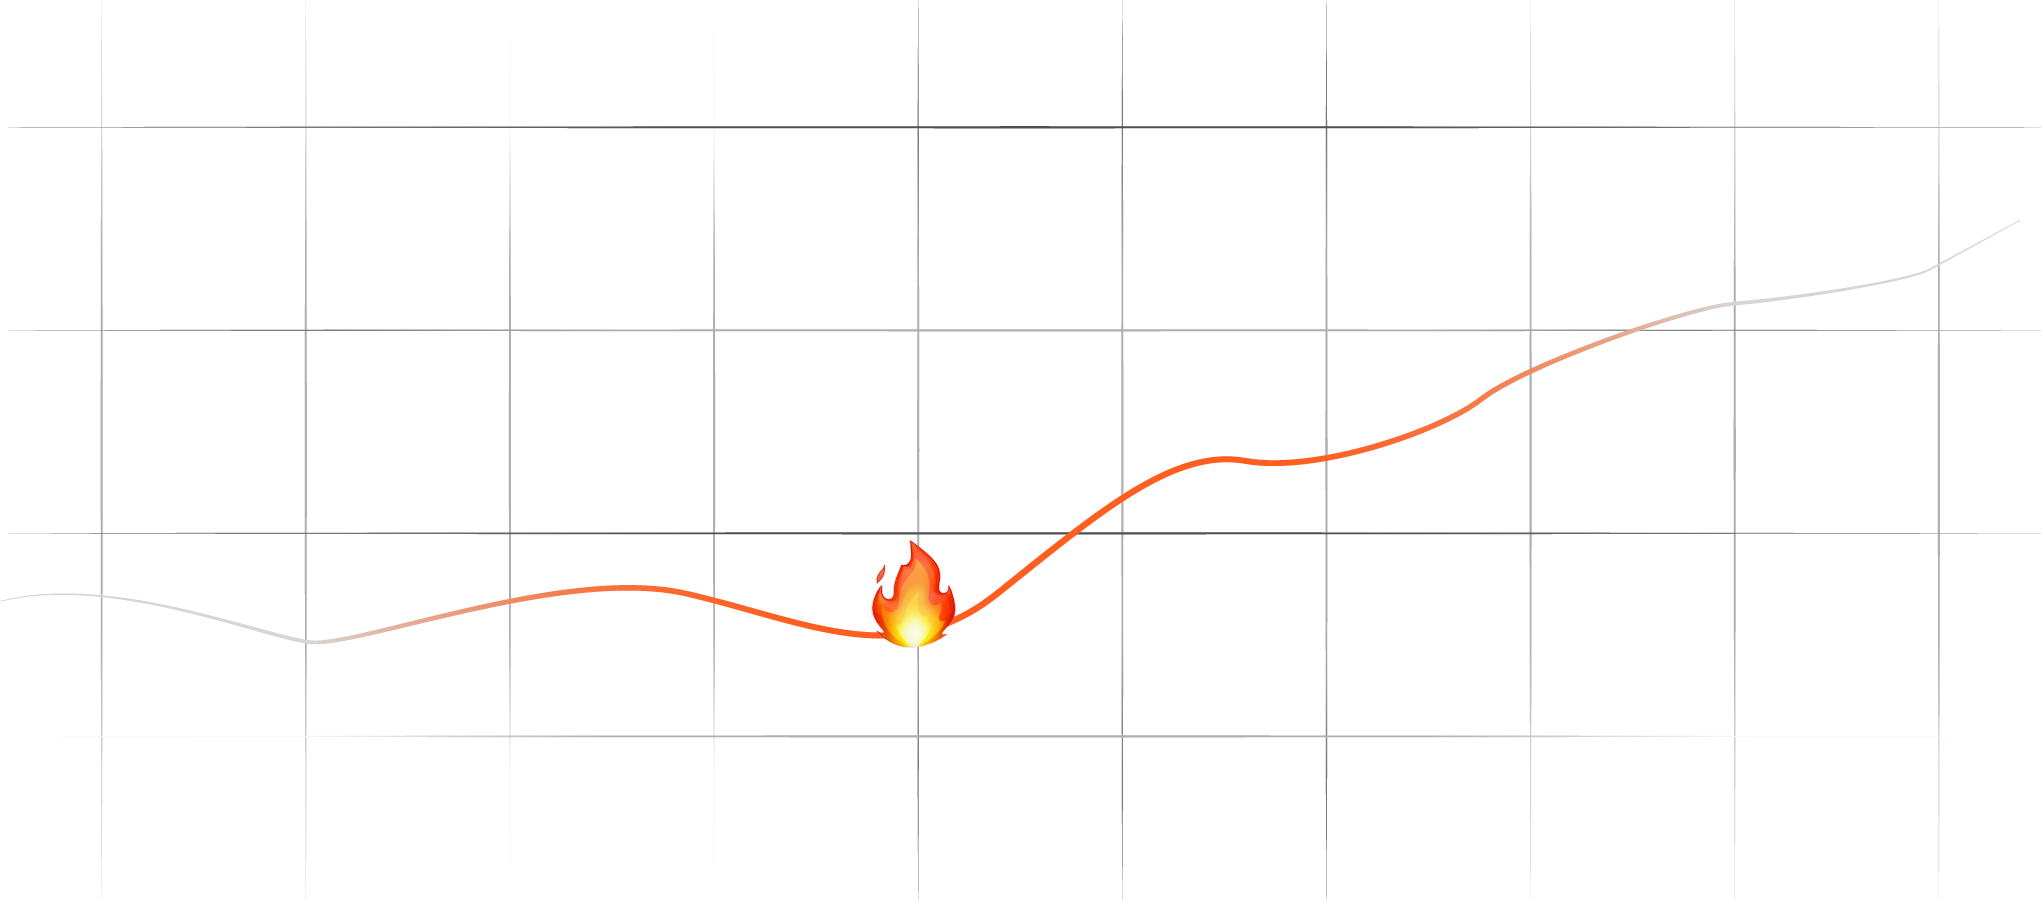
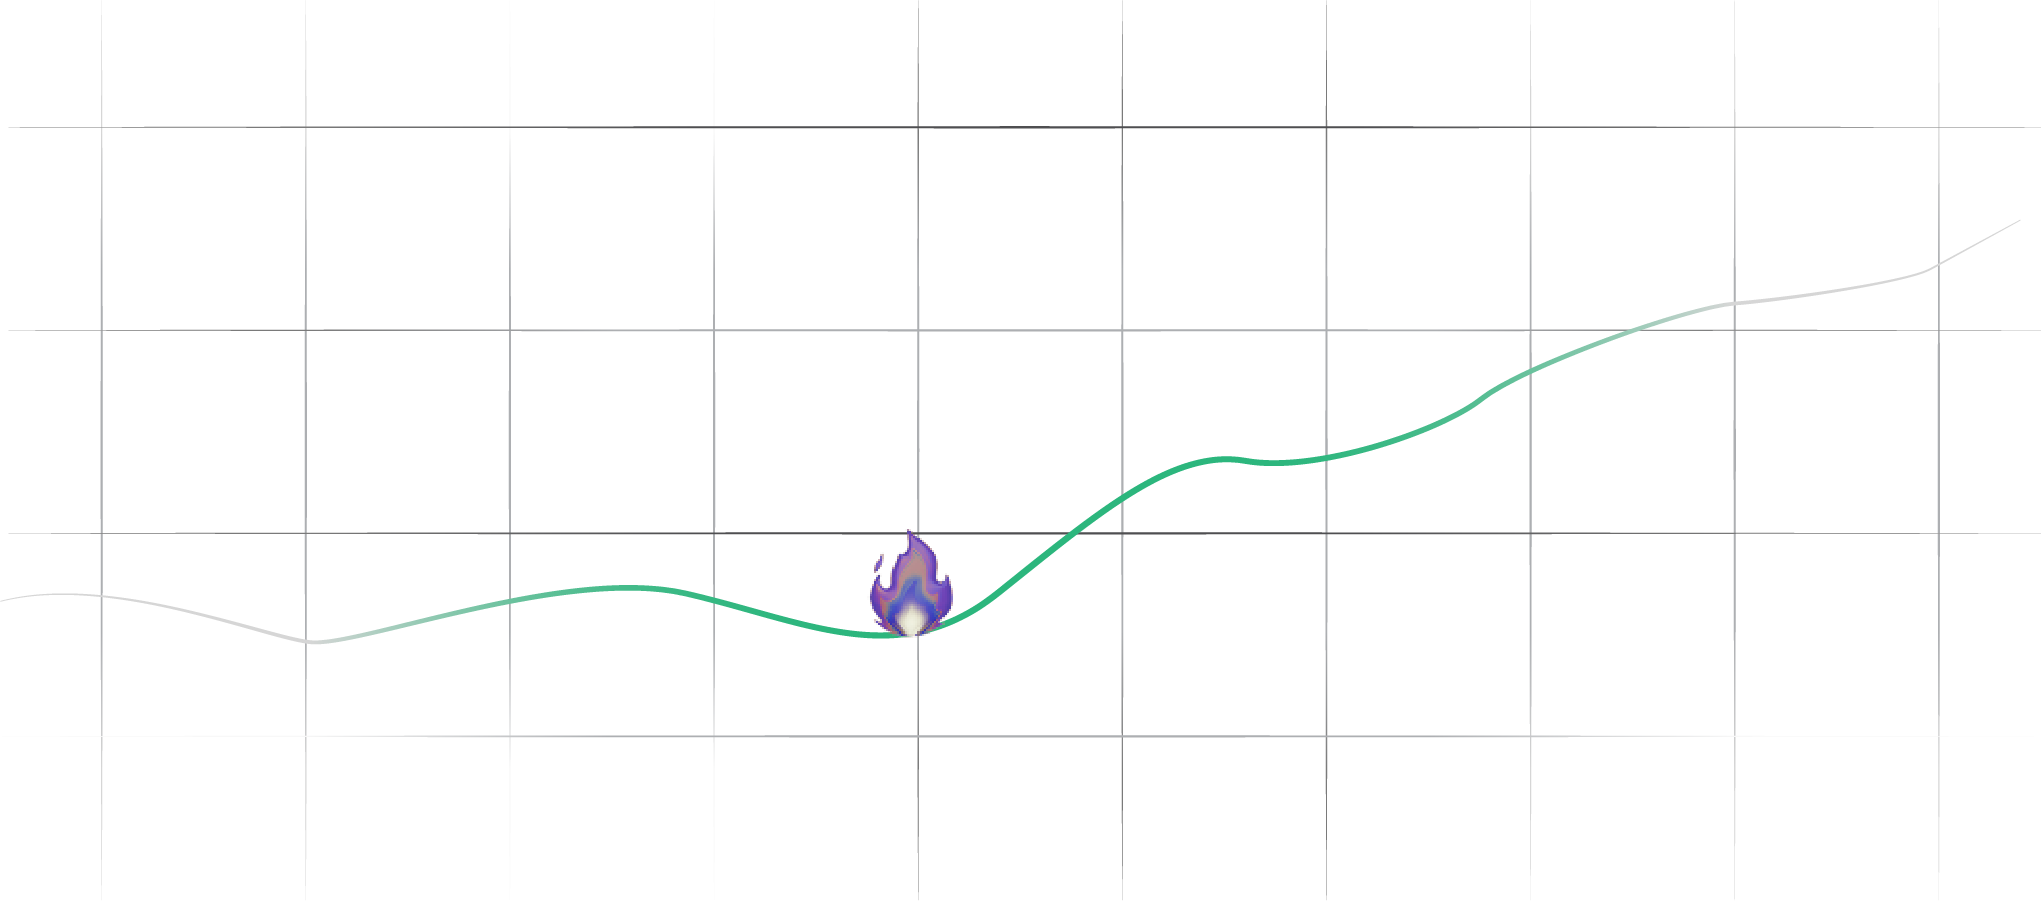
style: update roast summary images #87
Fixes #87

diff --git a/components/roasts/landing-summary.tsx b/components/roasts/landing-summary.tsx
@@ -4,7 +4,7 @@ import Link from 'next/link';
 import { cn } from '@/lib/utils';
 import ChartImg from '@/public/images/roasts/chart.png';
 import GrillImg from '@/public/images/roasts/grill.png';
-import TeamImg from '@/public/images/roasts/team.png';
+import TeamImg from '@/public/images/roasts/team-brilla.png';
 
 import { FadeIn } from '../fade-in';
 import { GradientHeading } from '../gradient-headings';
